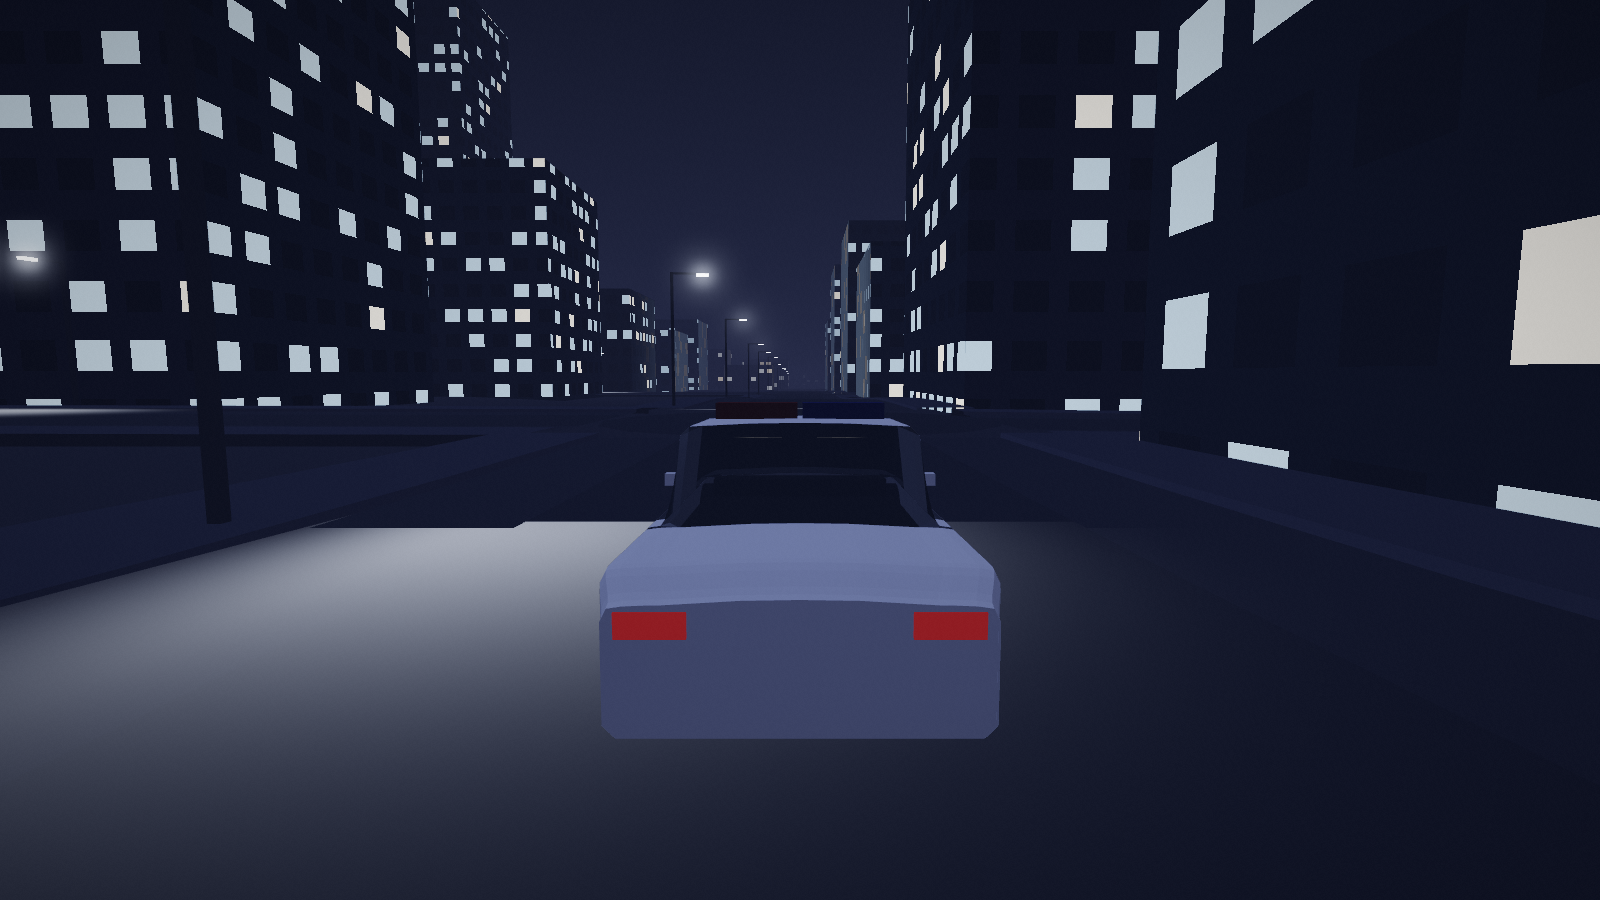
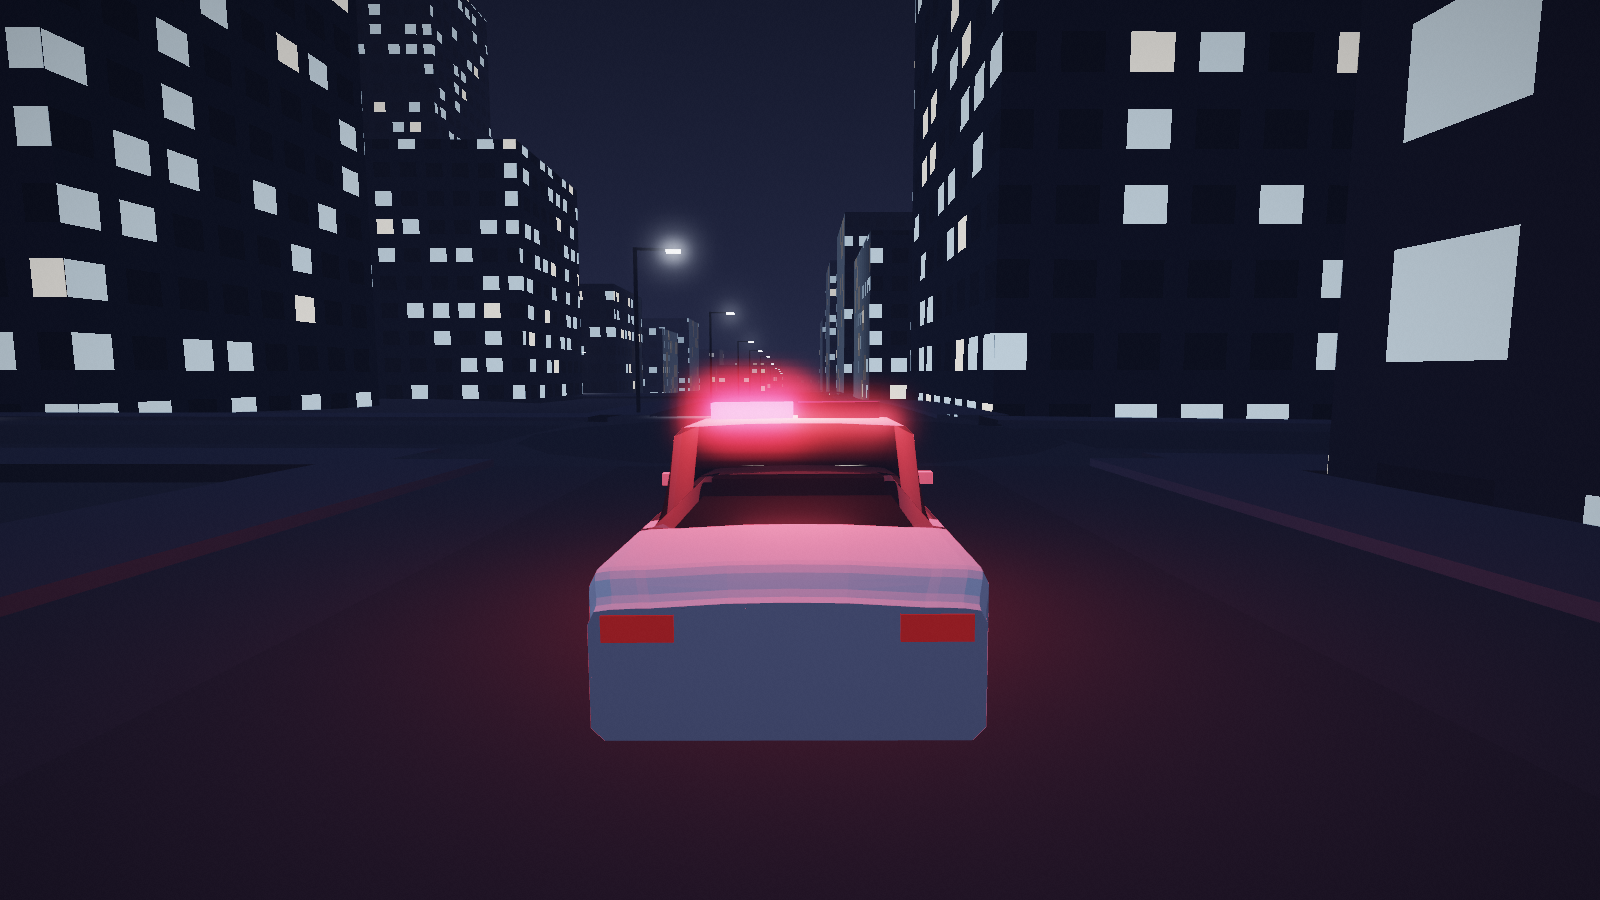
docs: art integration — round 12b merge notes, perf vs greybox on this box, re-shot screenshots; art_shots at gfx=high with pinned strobe phases
Claude-Session: https://claude.ai/code/session_01TbsTHFNpcodmrJRPmtq2nU

diff --git a/docs/integration/art.md b/docs/integration/art.md
@@ -8,6 +8,96 @@ palette and post.
 - **Folders owned:** `docs/art/`, `docs/media/art/`, `tools/assets/`, `apps/testbed-web/src/render/{palette,style,post}.ts`
 - **Contract version built against:** 0.3.0 (no contract or Rust changes)
 
+## Merge of `lead/round12` (round 12b, 2026-10-20)
+
+`origin/lead/round12` merged into `ws/art` (commit 2421dc0 + follow-ups). The style was
+ported onto the new structure, not restored:
+
+- **Fleet / LOD** (`render/fleet.ts`, `render/lod.ts`): the instanced fleet takes the palette.
+  `styledPaint(hex)` maps the greybox traffic liveries one to one onto
+  `PALETTE.trafficPaints` (same variant → same slot) and police white onto `policePaint`;
+  `styledLamp` turns TAIL / BAR / HEAD into HDR instance colours (brake ×`brakeGlow`,
+  running lights at night, hazard amber, light bars ×`policeRedGlow` / `policeBlueGlow`,
+  headlights ×`headlightGlow` at night). Both run inside `InstancedCar.put`, so every user of
+  `InstancedCar` gets them. Paint / detail sheen match R's panels in low-poly dark (roughness
+  0.85, metal 0.15) and detail colours (glass, trim, tyres, rims) come from the palette, so a
+  promotion swaps the drawer with no recolour: `VehicleView.applyStyle` uses the same
+  `styledPaint` for traffic / police (players keep `vehiclePaint`). Models are rebuilt on a
+  style switch (meshes are cached). LOD e2e: 0 missing frames, max hand-over jump 0.003 m.
+- **Siren light:** the one shared `SceneView.setSiren` light takes `PALETTE.policeRed/Blue`
+  and `sirenLightIntensity(glow)` = glow × `PALETTE.sirenLightPerGlow` (2) in low-poly dark
+  (25 as before in greybox); light-bar emissives = `policeRedGlow` / `policeBlueGlow`.
+  Helicopters keep `policeGlow`. Still exactly 1 point light.
+- **scene.ts:** CityTiles culling kept; `render()` updates the tiles, then calls
+  `renderOverride` (post stack) or plain render. The old agent-box hooks (`agentMaterial`,
+  `agentColour`) are gone with `updateAgents`. Constructor `{ postAA }`: canvas MSAA =
+  `quality.antialias && !postAA`; the post target's MSAA = `quality.antialias` (and not
+  `?msaa=0`), so the low profile has no MSAA anywhere and high has exactly one MSAA buffer.
+- **vehicle_view.ts:** proxy stand-in (recoloured with the livery) and headlight pool kept.
+  **signals_view.ts:** lamp boost kept on top of near-head packing. **panels.ts:**
+  `applyStyle` kept next to the re-skin skip; glass keeps `forceSinglePass`.
+- **Street lamps** read every kerb tile (the city is tiled before `onCityLoaded`), and are
+  now built per 320 m city-tile cell (pole + arm merged: 3 instanced meshes per cell),
+  frustum-culled and hidden past the draw distance like the city tiles
+  (`style.lampTileStats(city)`). One city-wide instanced set of 1837 lamps, never culled,
+  cost more than the whole greybox frame under SwiftShader.
+- **Low graphics profile** (`quality.lite`, new field = the low profile; auto on a software
+  GL): no light pools, bloom off (debug toggle can re-enable); tonemap / grade stay. High
+  keeps everything. `?style=greybox|lowpoly`, the selector and `__wp.setStyle` unchanged.
+- **Drawn props (`lead/draw-props`): not in `lead/round12` yet**, so nothing to port in this
+  merge. They are ready for it: props reuse `InstancedCar` and the fleet's materials, so
+  parked cars get palette liveries and lamp colours through `put` with no props change
+  (`fleet.ts` here already has draw-props' `export class InstancedCar`, `put()`, exported
+  `FleetMaterials` and public `mats`; only the `put` body differs → a small conflict for the
+  lead: keep this side's body). Cones: `PALETTE.propCone` / `propConeGlow` exist; see Requests.
+
+### Checks (2026-10-20, cloud container, after the merge)
+- `cargo fmt --check`, `cargo clippy --workspace -- -D warnings`, `cargo build --target
+  wasm32-unknown-unknown -p wp_wasm`, `npx tsc --noEmit`: pass.
+- `just web-e2e` (`npm run e2e` after `npm run wasm`): **all 89 functional checks pass**
+  (art style, new fleet check, LOD, signals, weather, gamepad, races, garage…); **only the
+  perf step fails**, and it fails the same way in greybox on this machine (below).
+- `cargo test --workspace --no-fail-fast`: 7 tests fail in `city-import`, `simcli
+  scenarios` (goldens), `wp_race race_picker`, `wp_sim sidewalk`, `wp_vehicle
+  handling_balance`, `wp_wasm` (2 race tests). This branch has **no** diff from
+  `lead/round12` in `crates/`, `data/`, `apps/simcli`, `apps/server`, `tools/` or Cargo files,
+  so all of them are the base branch's.
+
+### Perf against the browser perf pass's budget
+`e2e/perf_check.mjs` now measures `?style=lowpoly` (env `QUERY` overrides) and tags runs with
+the style; `e2e/frame_profile.mjs` counts frames by the main scene render (the post stack
+renders several times per frame, which divided the draw-call / triangle averages) and its
+synced render / churn check go through `SceneView.render` (post included).
+
+This container is ~3× slower than the perf pass's: the wasm sim step alone is 70–106 ms per
+frame here (28.8 ms in browser-perf.md), so **greybox fails `perf_check` here too**
+(chase RTF 0.73–0.76, rain 0.82, 21–29 frames over 250 ms vs ≤ 12). Low-poly dark vs greybox
+on the same box (12 s chase, auto = software-GL low profile, 0.35×):
+
+| | greybox | low-poly (merge, before fixes) | low-poly (lamp tiles + lite) |
+|---|---|---|---|
+| chase RTF (3 runs / 2 runs) | 0.73–0.76 | 0.66–0.68 | 0.68–0.75 |
+| rain RTF | 0.82 | — | 0.73–0.77 |
+| SwiftShader raster wait / frame | 151–162 ms | 245–256 ms | — |
+| draw calls / triangles (chase) | ~648 / 289k | ~537 / 333k | ~656 / 286k |
+| point lights / programChurn / tiles drawn | 1 / 0 / ~90 of 687 | same | same |
+
+Static frame (`node e2e/art_cost.mjs`, one paused night-chase frame, median of 8 synced
+renders, low profile): low-poly dark 160–170 ms vs greybox 119 ms (it was 254 vs 112 before
+the lamp tiles). Remaining parts, each ≈ 10–40 ms and within run noise: post composite,
+lamp tiles, buildings, fleet. With `gfx=high` (native res, MSAA) SwiftShader multisamples
+the half-float post target in software: 815–875 ms vs 393 ms greybox (whose canvas had no
+MSAA in that session); on a hardware GPU the post estimate stays ≤ 1 ms (numbers above).
+**On a box where greybox meets the perf budget, expect low-poly to cost ~0.05 RTF in the
+chase and ~0 in rain** — I could not show a pass here because the base fails.
+
+### Screenshots
+`node e2e/art_shots.mjs` now loads `gfx=high` (full look; `GFX=` overrides) and pins the
+light-bar strobe phase for the police shots (at ~1 fps all three could land in the dark
+phase). Re-shot after the merge: `docs/media/art/{dawn,day,dusk,night}_chase.png`,
+`night_chase_greybox.png`, `night_police_{0,1,2}.png` (red, blue, gap), downtown street /
+aerial, `rainy_night_chase.png`.
+
 ## Status (round 12 assignment, 2026-10-19) — all six items done
 1. **Shared palette** `apps/testbed-web/src/render/palette.ts`: streets, district looks
    (3 building tiers, ground, window colour + lit share, sodium/LED lamps), window warm/cool,
@@ -64,6 +154,9 @@ page starts in low-poly dark), so AA costs about what it did before, at twice th
 (half-float). If that ever shows on a phone, `?msaa=0` is the switch.
 
 ## Changes outside my folders (minimal wiring)
+- Round 12b merge: `render/fleet.ts` (styledPaint / styledLamp, exports as draw-props),
+  `render/quality.ts` (`lite`), `e2e/frame_profile.mjs` + `e2e/perf_check.mjs` (measurement
+  fixes above), `e2e/run.mjs` (fleet art check). New `e2e/art_cost.mjs`.
 - `src/scene.ts`: `hemi`/`sun` public; `agentMaterial`, `agentColour`, `policeGlow`,
   `renderOverride` hooks; `onCityLoaded(root, cityId)`; constructor `{ antialias }` option.
 - `src/vehicle_view.ts`: style re-apply on `artStyle.version`, lamp/light-bar glow, headlight pool.
@@ -75,6 +168,13 @@ page starts in low-poly dark), so AA costs about what it did before, at twice th
 - New: `e2e/art_shots.mjs`, `e2e/art_perf.mjs`.
 
 ## Requests
+- **Lead (draw-props merge):** in `fleet.ts` keep this branch's `InstancedCar.put` body (it
+  applies the style); in `props.ts` set `coneMat` to `PALETTE.propCone` / `propConeGlow` when
+  `artStyle.lowpoly` (a 4-line change I can do once props are on my base), and re-`put` props
+  on `artStyle.version` change if live switching should recolour parked cars.
+- **Lead / perf owner:** `perf_check` thresholds were set on a faster container; here greybox
+  fails `framesOver250` (21–29) and sits at the RTF floor. Either a per-machine baseline
+  (greybox run as reference) or a looser floor would make the gate meaningful on slow boxes.
 - **Testbed / lead:** new views should take colours from `render/palette.ts` and, for lights,
   set `emissiveIntensity` from it when `artStyle.lowpoly` (see `vehicle_view.ts setMeta`).
 - **World (05):** a per-building id (or vertex colour) in the greybox would let façade tiers
@@ -84,7 +184,8 @@ page starts in low-poly dark), so AA costs about what it did before, at twice th
   boxes; a light-bar mesh for them is a small follow-up on my side once they are drawn properly.
 
 ## Known gaps
-- Traffic agents that are not physical are still instanced boxes (palette paints, no lamps).
+- Parked props drawn before a live style switch keep their old colours until they move.
+- The low profile has no light pools and no bloom (by design, see above).
 - Windows ignore real floor heights on hills (grid from absolute height).
 - No scrape decals, skid marks or sparks yet (decal pool: prompt 11 later items).
 - Light pools are flat discs at kerb height − 13 cm; on steep grades they can clip slightly.
